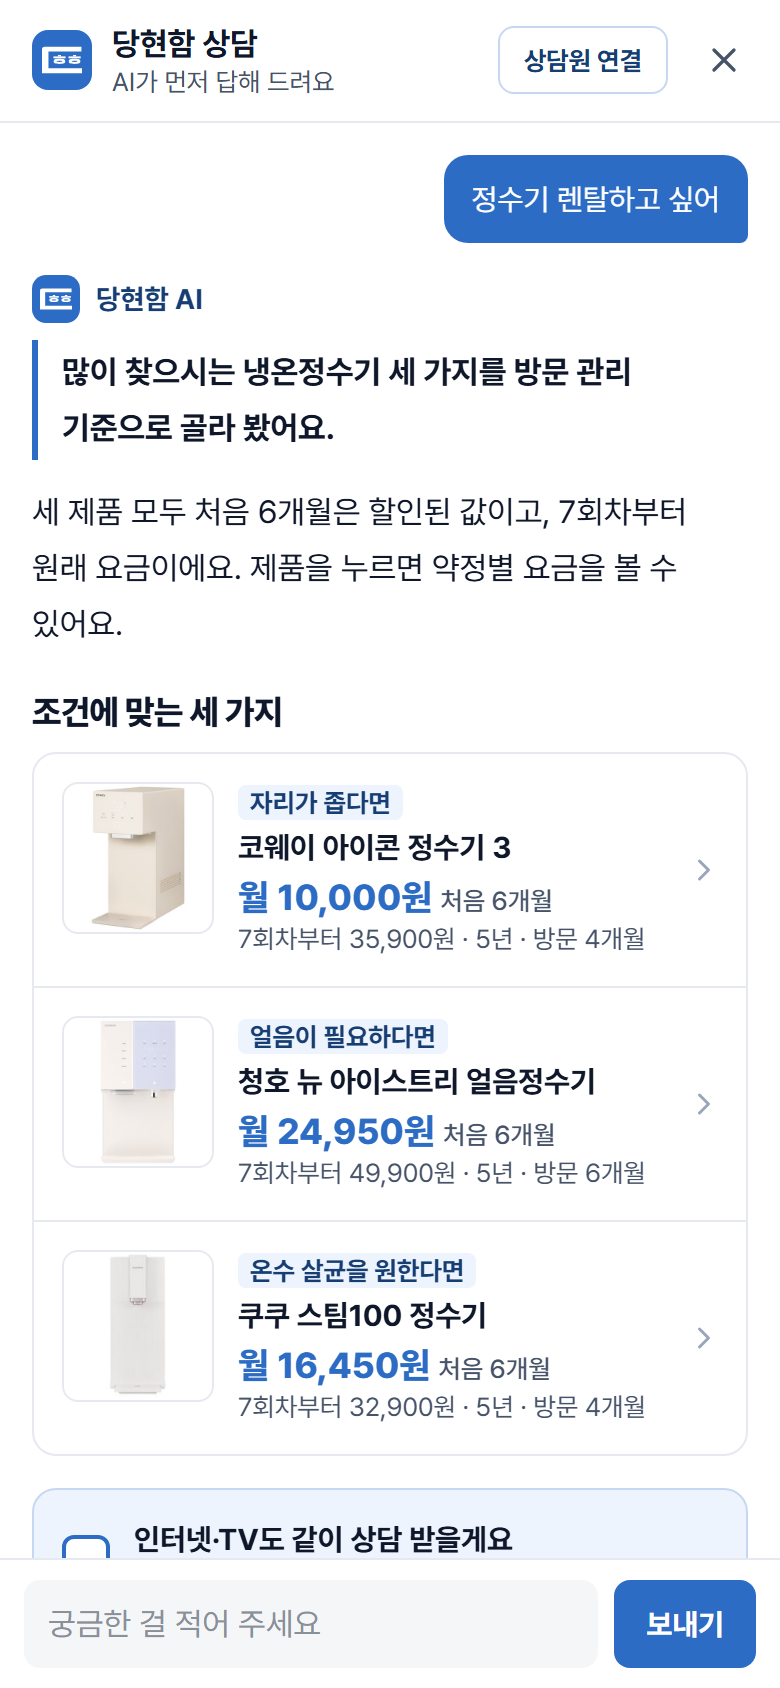
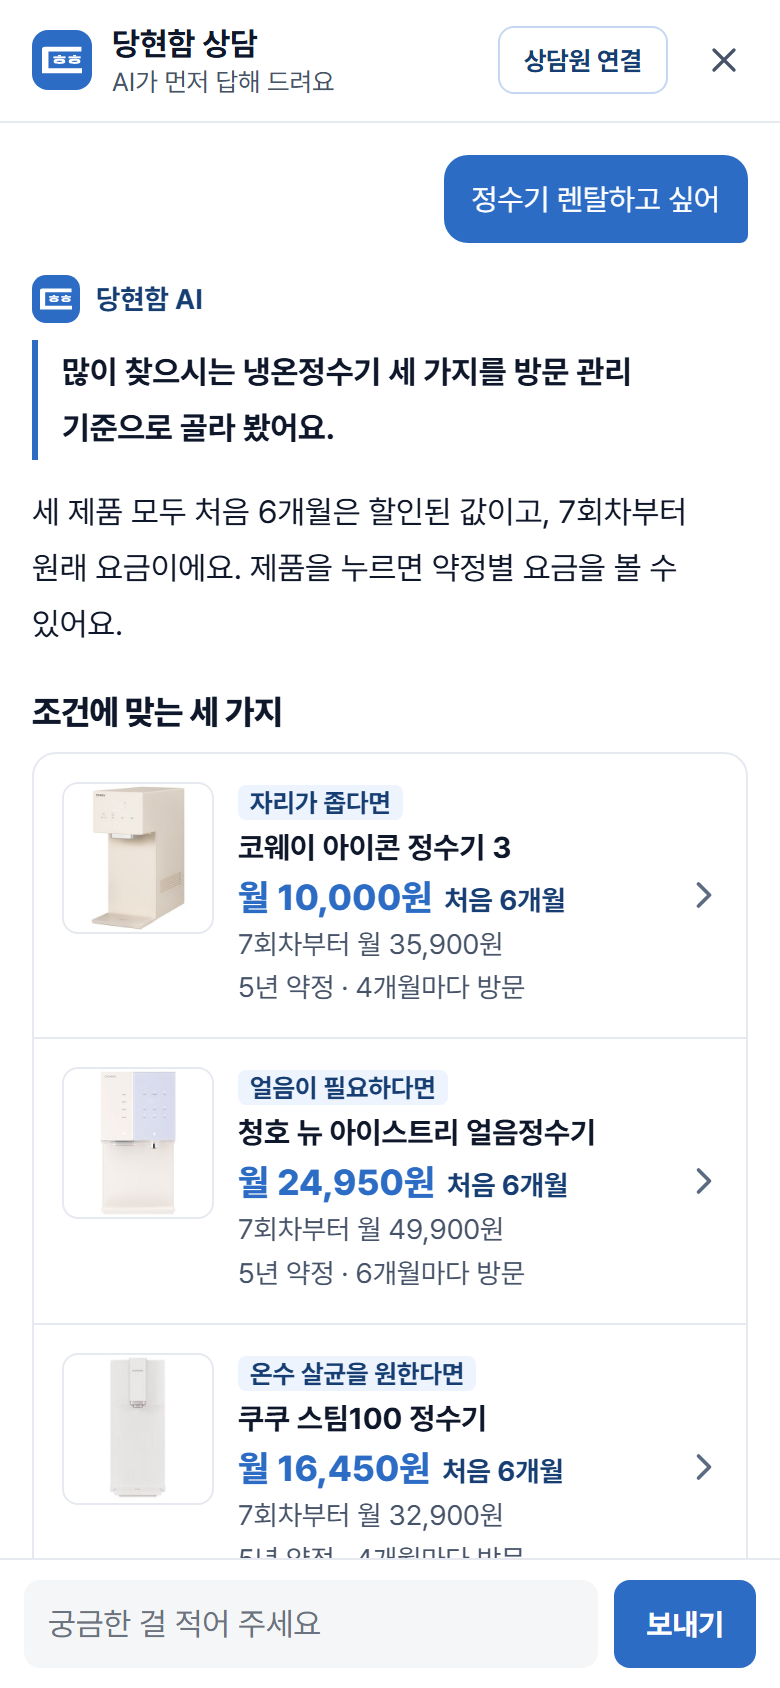
auto: 2026-11-12 16:08:34

diff --git a/시안/ai상담_최종시안_20261112.html b/시안/ai상담_최종시안_20261112.html
@@ -60,15 +60,15 @@ body.shot .pn{width:390px;height:100vh;border:0;border-radius:0;box-shadow:none}
 .row img{width:76px;height:76px;object-fit:contain;background:#fff;border-radius:8px;border:1px solid var(--line)}
 .row .why{display:inline-block;font-size:13px;font-weight:700;color:var(--pri-ink);background:var(--pri-bg);border-radius:4px;padding:1px 6px;margin-bottom:3px}
 .row .nm{font-size:15px;font-weight:700;line-height:1.4;padding-right:22px}
-.row .pr{font-size:18px;font-weight:800;color:var(--pri);margin-top:4px}.row .pr small{font-size:13px;font-weight:500;color:var(--sub);margin-left:4px}
-.row .nx{font-size:13px;color:var(--sub);line-height:1.5}
-.row .go{position:absolute;right:12px;top:50%;margin-top:-9px;color:#9AA6B8}
+.row .pr{font-size:18px;font-weight:800;color:var(--pri);margin-top:4px}.row .pr small{font-size:14px;font-weight:700;color:var(--pri-ink);margin-left:6px}
+.row .nx{font-size:14px;color:var(--sub);line-height:1.55;margin-top:2px}
+.row .go{position:absolute;right:10px;top:50%;margin-top:-11px;width:22px;height:22px;color:#5B6B82}
 
 /* 함께 상담 체크 */
 .with{display:flex;align-items:center;gap:12px;padding:14px;border-radius:12px;background:var(--pri-bg);border:1px solid var(--pri-line);font-size:15px;font-weight:700;line-height:1.4;cursor:pointer}
 .with .bx{width:24px;height:24px;border-radius:6px;border:2px solid var(--pri);flex:none;background:#fff}
-.with small{display:block;font-size:13px;font-weight:400;color:var(--sub);margin-top:2px}
-.warn{font-size:12px;line-height:1.6;color:var(--dim)}
+.with small{display:block;font-size:14px;font-weight:500;color:#33415A;margin-top:2px}
+.warn{font-size:13px;line-height:1.6;color:#6B7280}
 
 /* 맨 아래 단추 — 큰 단추는 A 모양, 카톡·전화는 C 모양(동그란 단추) */
 .end{display:flex;gap:8px;align-items:center}
@@ -80,7 +80,7 @@ body.shot .pn{width:390px;height:100vh;border:0;border-radius:0;box-shadow:none}
 
 /* 입력칸 */
 .ft{flex:none;border-top:1px solid var(--line);padding:10px 12px;display:flex;gap:8px;background:#fff}
-.ft .in{flex:1;height:44px;border-radius:8px;background:var(--soft);display:flex;align-items:center;padding:0 12px;font-size:16px;color:var(--dim)}
+.ft .in{flex:1;height:44px;border-radius:8px;background:var(--soft);display:flex;align-items:center;padding:0 12px;font-size:16px;color:#6B7280}
 .ft .sd{height:44px;padding:0 16px;border-radius:8px;background:var(--pri);color:#fff;font-weight:700;font-size:15px;display:flex;align-items:center}
 .ft .sd.off{background:#A9B3C2}
 
@@ -94,12 +94,12 @@ body.shot .pn{width:390px;height:100vh;border:0;border-radius:0;box-shadow:none}
 .bars i:nth-child(2){animation-delay:.12s}.bars i:nth-child(3){animation-delay:.24s}.bars i:nth-child(4){animation-delay:.36s}.bars i:nth-child(5){animation-delay:.48s}
 @keyframes wave{0%,100%{transform:scaleY(.35);opacity:.45}50%{transform:scaleY(1);opacity:1}}
 .shine{margin:0;font-size:17px;font-weight:800;letter-spacing:-.02em;line-height:1.4;color:var(--ink);
-  background:linear-gradient(90deg,var(--ink) 0%,var(--ink) 38%,#8DB4EA 50%,var(--ink) 62%,var(--ink) 100%);
+  background:linear-gradient(90deg,var(--ink) 0%,var(--ink) 38%,#5F8FD6 50%,var(--ink) 62%,var(--ink) 100%);
   background-size:250% 100%;-webkit-background-clip:text;background-clip:text;-webkit-text-fill-color:transparent;animation:shine 1.6s linear infinite}
 @keyframes shine{0%{background-position:100% 0}100%{background-position:0 0}}
 .steps{list-style:none;margin:0;padding:12px 14px;display:flex;flex-direction:column;gap:8px;background:var(--pri-bg);border-radius:12px}
-.steps li{display:flex;align-items:center;gap:10px;font-size:15px;line-height:1.5;color:var(--sub);animation:in .35s ease-out both}
-.steps li::before{content:'';width:8px;height:8px;border-radius:50%;background:#B8C6DA;flex:none}
+.steps li{display:flex;align-items:center;gap:10px;font-size:15px;line-height:1.5;color:#33415A;animation:in .35s ease-out both}
+.steps li::before{content:'';width:8px;height:8px;border-radius:50%;background:#93A6C2;flex:none}
 .steps li.now{color:var(--ink);font-weight:700}
 .steps li.now::before{background:var(--pri);animation:ping 1.4s ease-out infinite}
 @keyframes ping{0%{box-shadow:0 0 0 0 rgba(45,108,196,.45)}100%{box-shadow:0 0 0 7px rgba(45,108,196,0)}}
@@ -135,11 +135,11 @@ body.shot .pn{width:390px;height:100vh;border:0;border-radius:0;box-shadow:none}
     </div>
     <div class="lh">조건에 맞는 세 가지</div>
     <div class="rows">
-      <a class="row" href="#"><img src="../img/coway-1.jpg" alt=""><div><span class="why">자리가 좁다면</span><div class="nm">코웨이 아이콘 정수기 3</div><div class="pr">월 10,000원<small>처음 6개월</small></div><div class="nx">7회차부터 35,900원 · 5년 · 방문 4개월</div></div><svg class="ic go"><use href="#go"/></svg></a>
-      <a class="row" href="#"><img src="../img/chungho-1086.jpg" alt=""><div><span class="why">얼음이 필요하다면</span><div class="nm">청호 뉴 아이스트리 얼음정수기</div><div class="pr">월 24,950원<small>처음 6개월</small></div><div class="nx">7회차부터 49,900원 · 5년 · 방문 6개월</div></div><svg class="ic go"><use href="#go"/></svg></a>
-      <a class="row" href="#"><img src="../img/cuckoo-1921.jpg" alt=""><div><span class="why">온수 살균을 원한다면</span><div class="nm">쿠쿠 스팀100 정수기</div><div class="pr">월 16,450원<small>처음 6개월</small></div><div class="nx">7회차부터 32,900원 · 5년 · 방문 4개월</div></div><svg class="ic go"><use href="#go"/></svg></a>
+      <a class="row" href="#"><img src="../img/coway-1.jpg" alt=""><div><span class="why">자리가 좁다면</span><div class="nm">코웨이 아이콘 정수기 3</div><div class="pr">월 10,000원<small>처음 6개월</small></div><div class="nx">7회차부터 월 35,900원<br>5년 약정 · 4개월마다 방문</div></div><svg class="ic go"><use href="#go"/></svg></a>
+      <a class="row" href="#"><img src="../img/chungho-1086.jpg" alt=""><div><span class="why">얼음이 필요하다면</span><div class="nm">청호 뉴 아이스트리 얼음정수기</div><div class="pr">월 24,950원<small>처음 6개월</small></div><div class="nx">7회차부터 월 49,900원<br>5년 약정 · 6개월마다 방문</div></div><svg class="ic go"><use href="#go"/></svg></a>
+      <a class="row" href="#"><img src="../img/cuckoo-1921.jpg" alt=""><div><span class="why">온수 살균을 원한다면</span><div class="nm">쿠쿠 스팀100 정수기</div><div class="pr">월 16,450원<small>처음 6개월</small></div><div class="nx">7회차부터 월 32,900원<br>5년 약정 · 4개월마다 방문</div></div><svg class="ic go"><use href="#go"/></svg></a>
     </div>
-    <label class="with"><span class="bx"></span><div>인터넷·TV도 같이 상담 받을게요<small>체크하시면 상담원이 한 번에 함께 안내해 드려요</small></div></label>
+    <label class="with"><span class="bx"></span><div>인터넷·TV도 같이 상담 받을게요<small>체크하면 상담 신청 때 함께 전달돼요</small></div></label>
     <div class="warn">AI가 생성한 응답은 부정확할 수 있습니다. 정확한 요금과 혜택은 상담원이 확인해서 확정해 드려요.</div>
     <div class="end">
       <a class="ap" href="#"><svg class="ic"><use href="#pen"/></svg>상담 신청하기</a>
